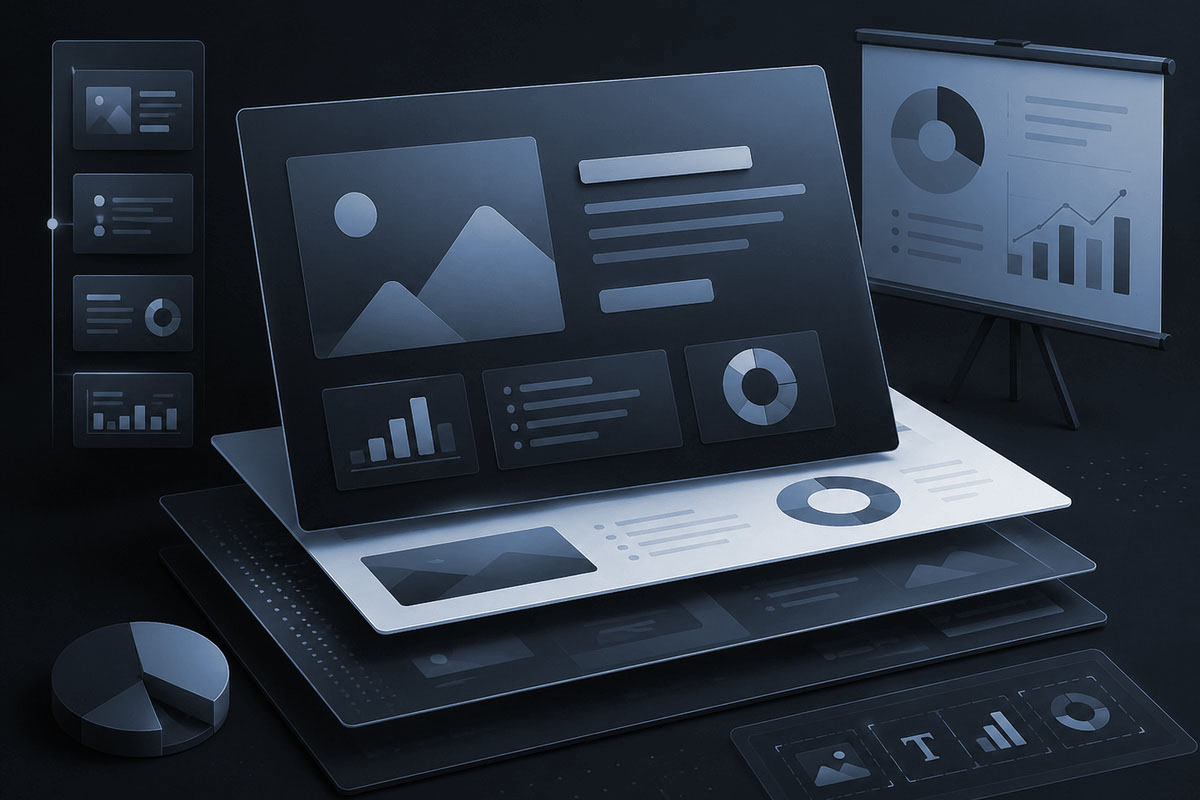
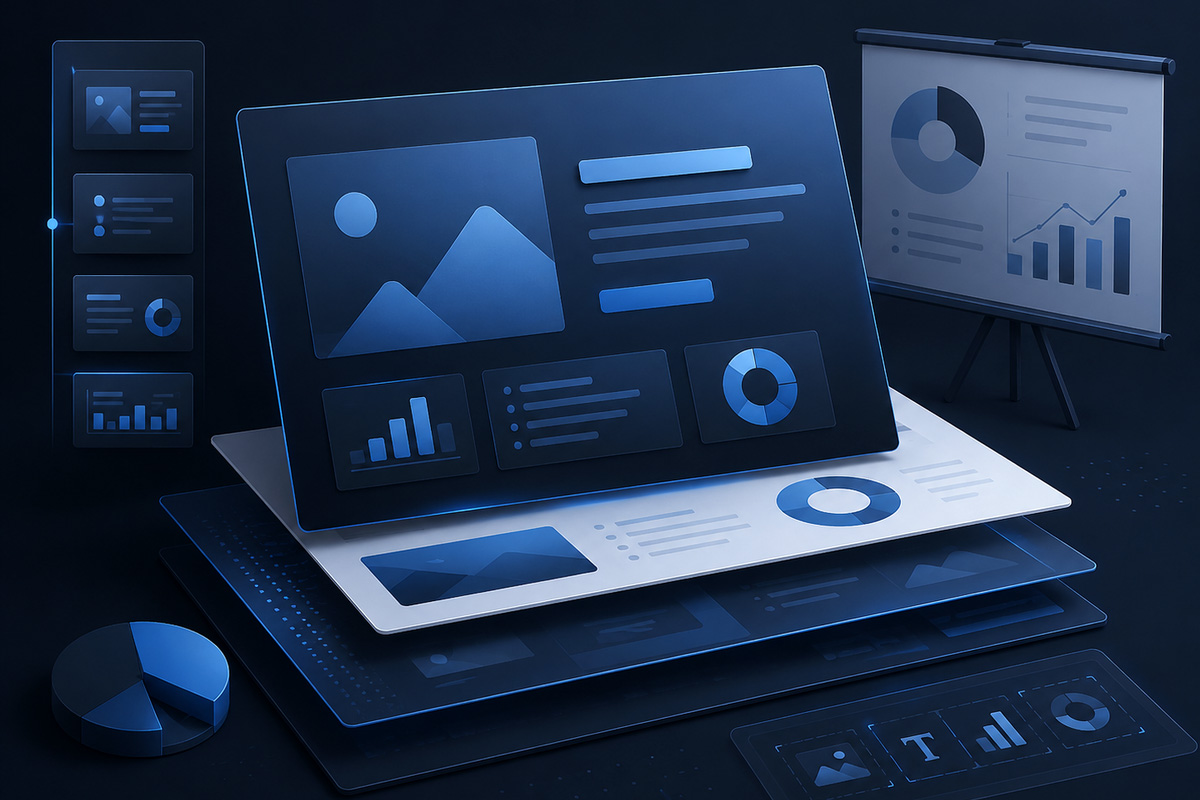
Add files via upload

diff --git a/index.html b/index.html
@@ -199,6 +199,11 @@
     <b>ทำสไลด์</b><span>Outline + Speaker Notes</span>
   </article>
 
+  <article class="home-choice-card" data-view="album">
+    <img src="assets/previews/preview-facebook.jpg" class="preview-thumbnail" alt="ชุดภาพโพสต์ Facebook">
+    <b>ชุดภาพโพสต์ Facebook</b><span>ภาพจริง + แคปชั่น + ZIP</span>
+  </article>
+
 </div>          </section>
 
           <aside class="panel">
@@ -213,12 +218,6 @@
           </aside>
         </div>
 
-        <section class="panel album-pro-summary-v861">
-          <div class="panel-head">
-            <div><h3>ชุดภาพโพสต์ Facebook</h3><p>ทำชุดภาพโพสต์หลายรูปจากภาพจริง พร้อมแคปชั่น พรีวิวจำลองหน้าโพสต์ และดาวน์โหลดเป็น ZIP</p></div>
-            <button class="btn primary" data-view="album">เปิดชุดภาพโพสต์ Facebook</button>
-          </div>
-        </section>
       </section>
 
       <section id="router" class="view">

diff --git a/PATCH-NOTES-V9.1.4-HOME-CARD-8-TH.md b/PATCH-NOTES-V9.1.4-HOME-CARD-8-TH.md
@@ -1,0 +1,9 @@
+# Patch: V9.1.4 — Home Card 8
+
+ปรับหน้าแรกตามคำขอ:
+
+- ย้ายเมนู “ชุดภาพโพสต์ Facebook” จากแถบด้านล่างขึ้นมาอยู่ในกลุ่ม “เมนูสร้างงาน”
+- จากเดิม 7 การ์ด เป็น 8 การ์ด
+- ใช้ภาพประกอบใหม่ `assets/previews/preview-facebook.jpg`
+- ลบกล่องสรุป “ชุดภาพโพสต์ Facebook” ด้านล่าง เพื่อไม่ให้เมนูซ้ำ
+- โครงสร้าง สี Layout ระบบ Prompt Brain และเมนูอื่น ๆ คงเดิมทั้งหมด